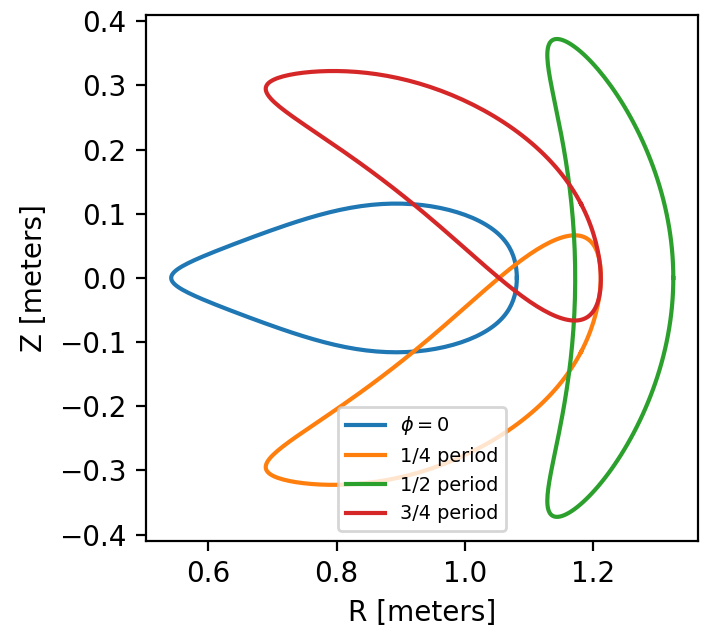
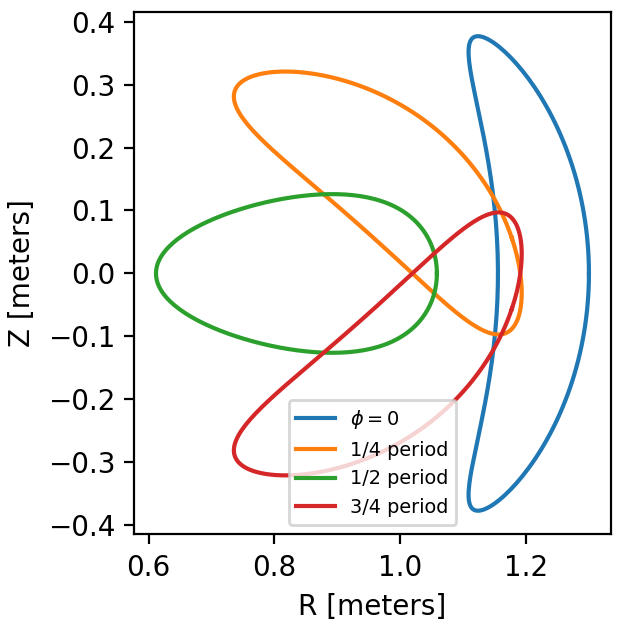
More updating of the tutorial on quasisymmetry optimization

Changed region(s): [[0.0916, 0.0, 1.0, 1.0], [0.0, 0.3035, 0.0611, 0.5767]]

diff --git a/docs/source/example_quasisymmetry.rst b/docs/source/example_quasisymmetry.rst
@@ -215,15 +215,20 @@ for the result shown here.
 
 Dynamic resolution
 ------------------
+..
+   This example was run on IPP-Cobra in /ptmp/mlan/20211217-01-simsopt_docs_tutorials/20211217-01-003_QA_dynamic_resolution
+   The final configuration is also available at
+   ~/Box Sync/work21/wout_20211217-01-003_simsopt_docs_tutorials_QA_dynamic_resolution_000_000205.nc
 
 Since simsopt optimization problems are defined using a python script,
-you are free to add other scripting. Here we show how this capability
-can be used to increase the numerical resolution of codes such as VMEC
-during the optimization. At the same time, we will increase the number
-of Fourier modes in the parameter space during the optimization. This
-example can also be found in the ``examples/2_Intermediate`` directory
-as ``resolution_increase.py``. This example is very similar to the
-quasi-axisymmetry optimization shown in `arXiv:2108.03711                                                               
+you are free to add other scripting in your problem definition. Here
+we show how this capability can be used to increase the numerical
+resolution of codes such as VMEC during the optimization. At the same
+time, we will increase the number of Fourier modes in the parameter
+space during the optimization. This example can also be found in the
+``examples/2_Intermediate`` directory as
+``resolution_increase.py``. This example is very similar to the
+quasi-axisymmetry optimization shown in `arXiv:2108.03711
 <https://arxiv.org/pdf/2108.03711>`__.
 
 As usual, we begin with the necessary imports::
@@ -268,7 +273,10 @@ axisymmetric::
                                           (qs, 0, 1)])
 
 It can be seen here that we are seeking a configuration with aspect
-ratio 6, and average iota slightly above 2 / 5 = 0.4.
+ratio 6, and average iota of 0.42, slightly above the resonance at 2 /
+5 = 0.4. The function :func:`simsopt.mhd.vmec.Vmec.mean_iota()` used
+here returns :math:`\int_0^1 \iota\, ds` where :math:`s` is the
+toroidal flux normalized by its value at the VMEC boundary.
 
 Now, we set up a loop over several optimization steps. At each step,
 the resolution parameters ``mpol`` and ``ntor`` for VMEC increase. At
@@ -320,7 +328,7 @@ is the following configuration:
 .. image:: example_quasisymmetry_QA_after_Boozer.png
    :width: 400
 ..
-   Figure produced by ~/Box Sync/work21/boozPlotHalfFluxUnfilled simsopt_nfp2_QA_20210328-01-020_000_000251/wout_simsopt_nfp2_QA_20210328-01-020_000_000251_scaled.nc
+   Figure produced by ~/Box Sync/work21/boozPlotHalfFluxUnfilled wout_20211217-01-003_simsopt_docs_tutorials_QA_dynamic_resolution_000_000205.nc
 
 
 Bmn objective
@@ -348,7 +356,8 @@ initialize a ``Vmec`` object as in the previous example::
   mpi = MpiPartition()
   vmec = Vmec("input.nfp2_QA", mpi=mpi)
 
-This input file can be found in the ``examples/2_Intermediate/inputs``
+This input file, corresponding to an axisymmetric torus with circular
+cross-section, can be found in the ``examples/2_Intermediate/inputs``
 directory. Next, this alternative quasisymmetry objective can be
 created as follows::
 
@@ -427,19 +436,19 @@ as the radial resolution or number of iterations in VMEC, the solver
 tolerances, or the maximum number of iteration of the optimization
 algorithm.
 
-As in the previous section, the final result of this optimization can
-be sensitive to small changes in simsopt, VMEC, or the packages they
-depend on. Therefore you will not necessarily obtain exactly the
+As with the previous examples, the final result of this optimization
+can be sensitive to small changes in simsopt, VMEC, or the packages
+they depend on. Therefore you will not necessarily obtain exactly the
 result shown here. But one result produced by this optimization script
 is the following configuration:
 
-.. image:: example_quasisymmetry_QA_after.png
+.. image:: example_quasisymmetry_QA_Bmn_after.png
    :width: 400
-.. image:: example_quasisymmetry_QA_after_3D.png
+.. image:: example_quasisymmetry_QA_Bmn_after_3D.png
    :width: 400
 ..
    Figure produced by ~/Box Sync/MATLAB/m20210207_plotVMECWout.m
-.. image:: example_quasisymmetry_QA_after_Boozer.png
+.. image:: example_quasisymmetry_QA_Bmn_after_Boozer.png
    :width: 400
 ..
    Figure produced by ~/Box Sync/work21/boozPlotHalfFluxUnfilled simsopt_nfp2_QA_20210328-01-020_000_000251/wout_simsopt_nfp2_QA_20210328-01-020_000_000251_scaled.nc
